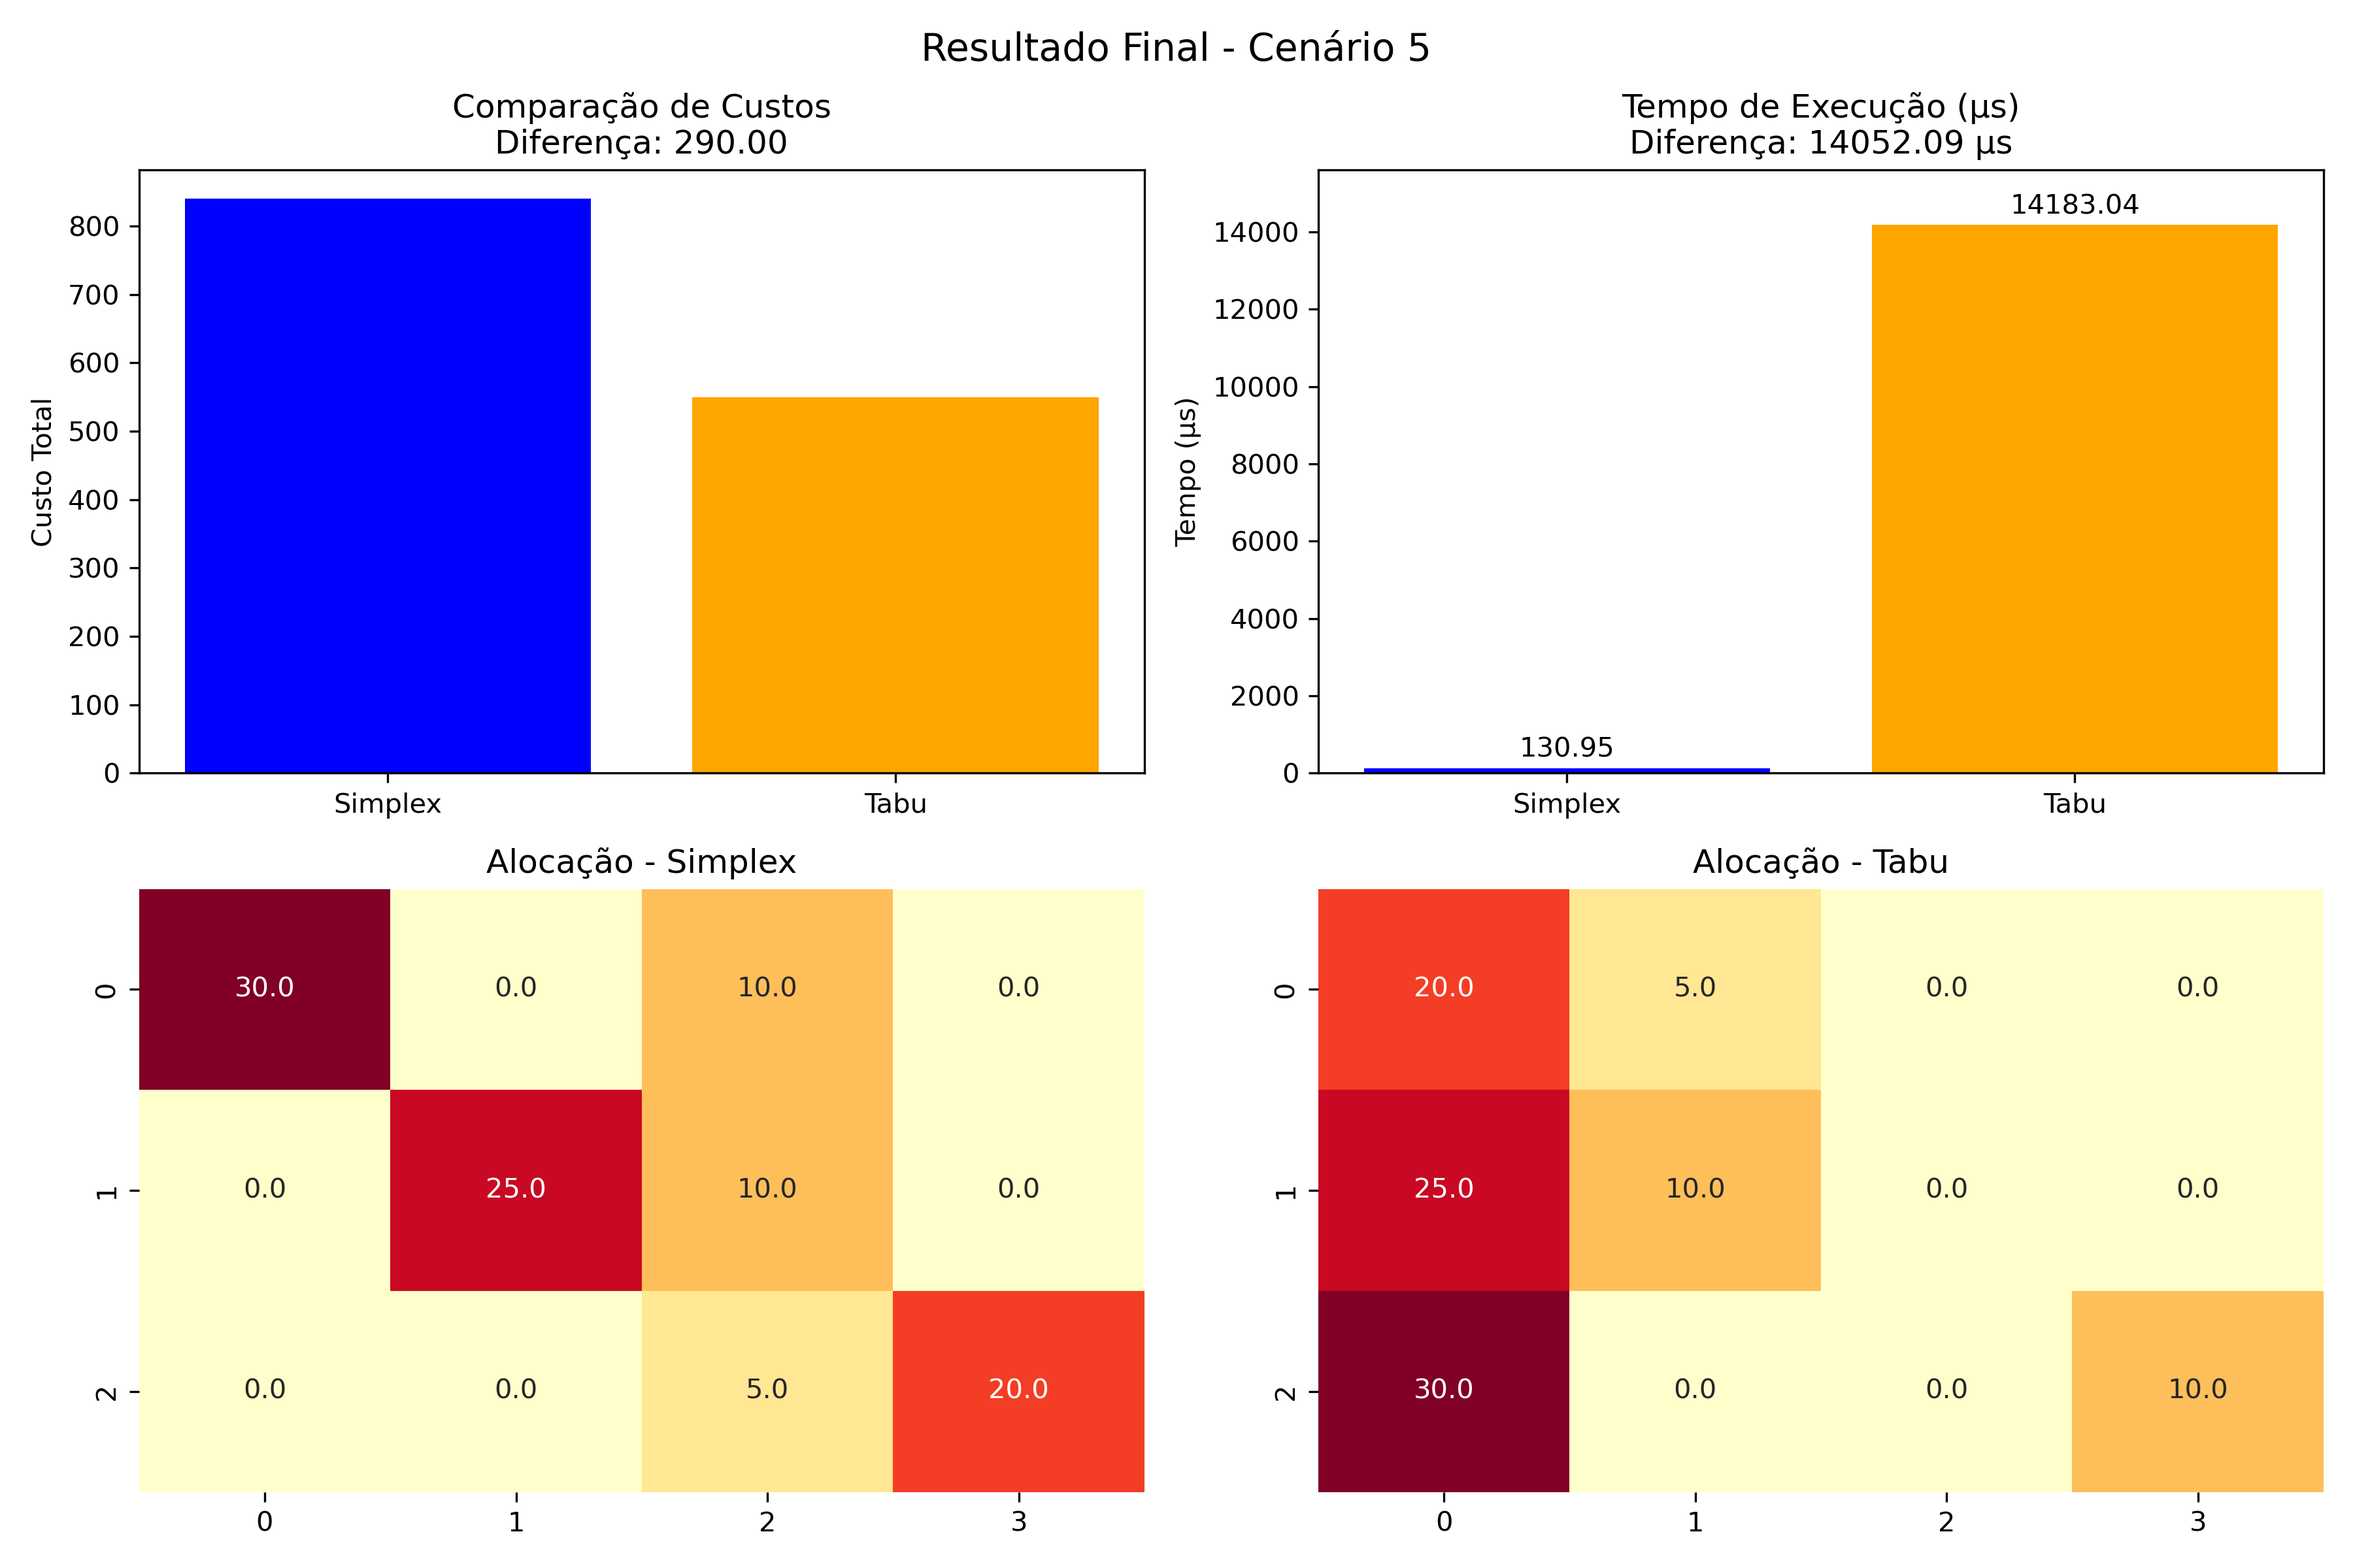
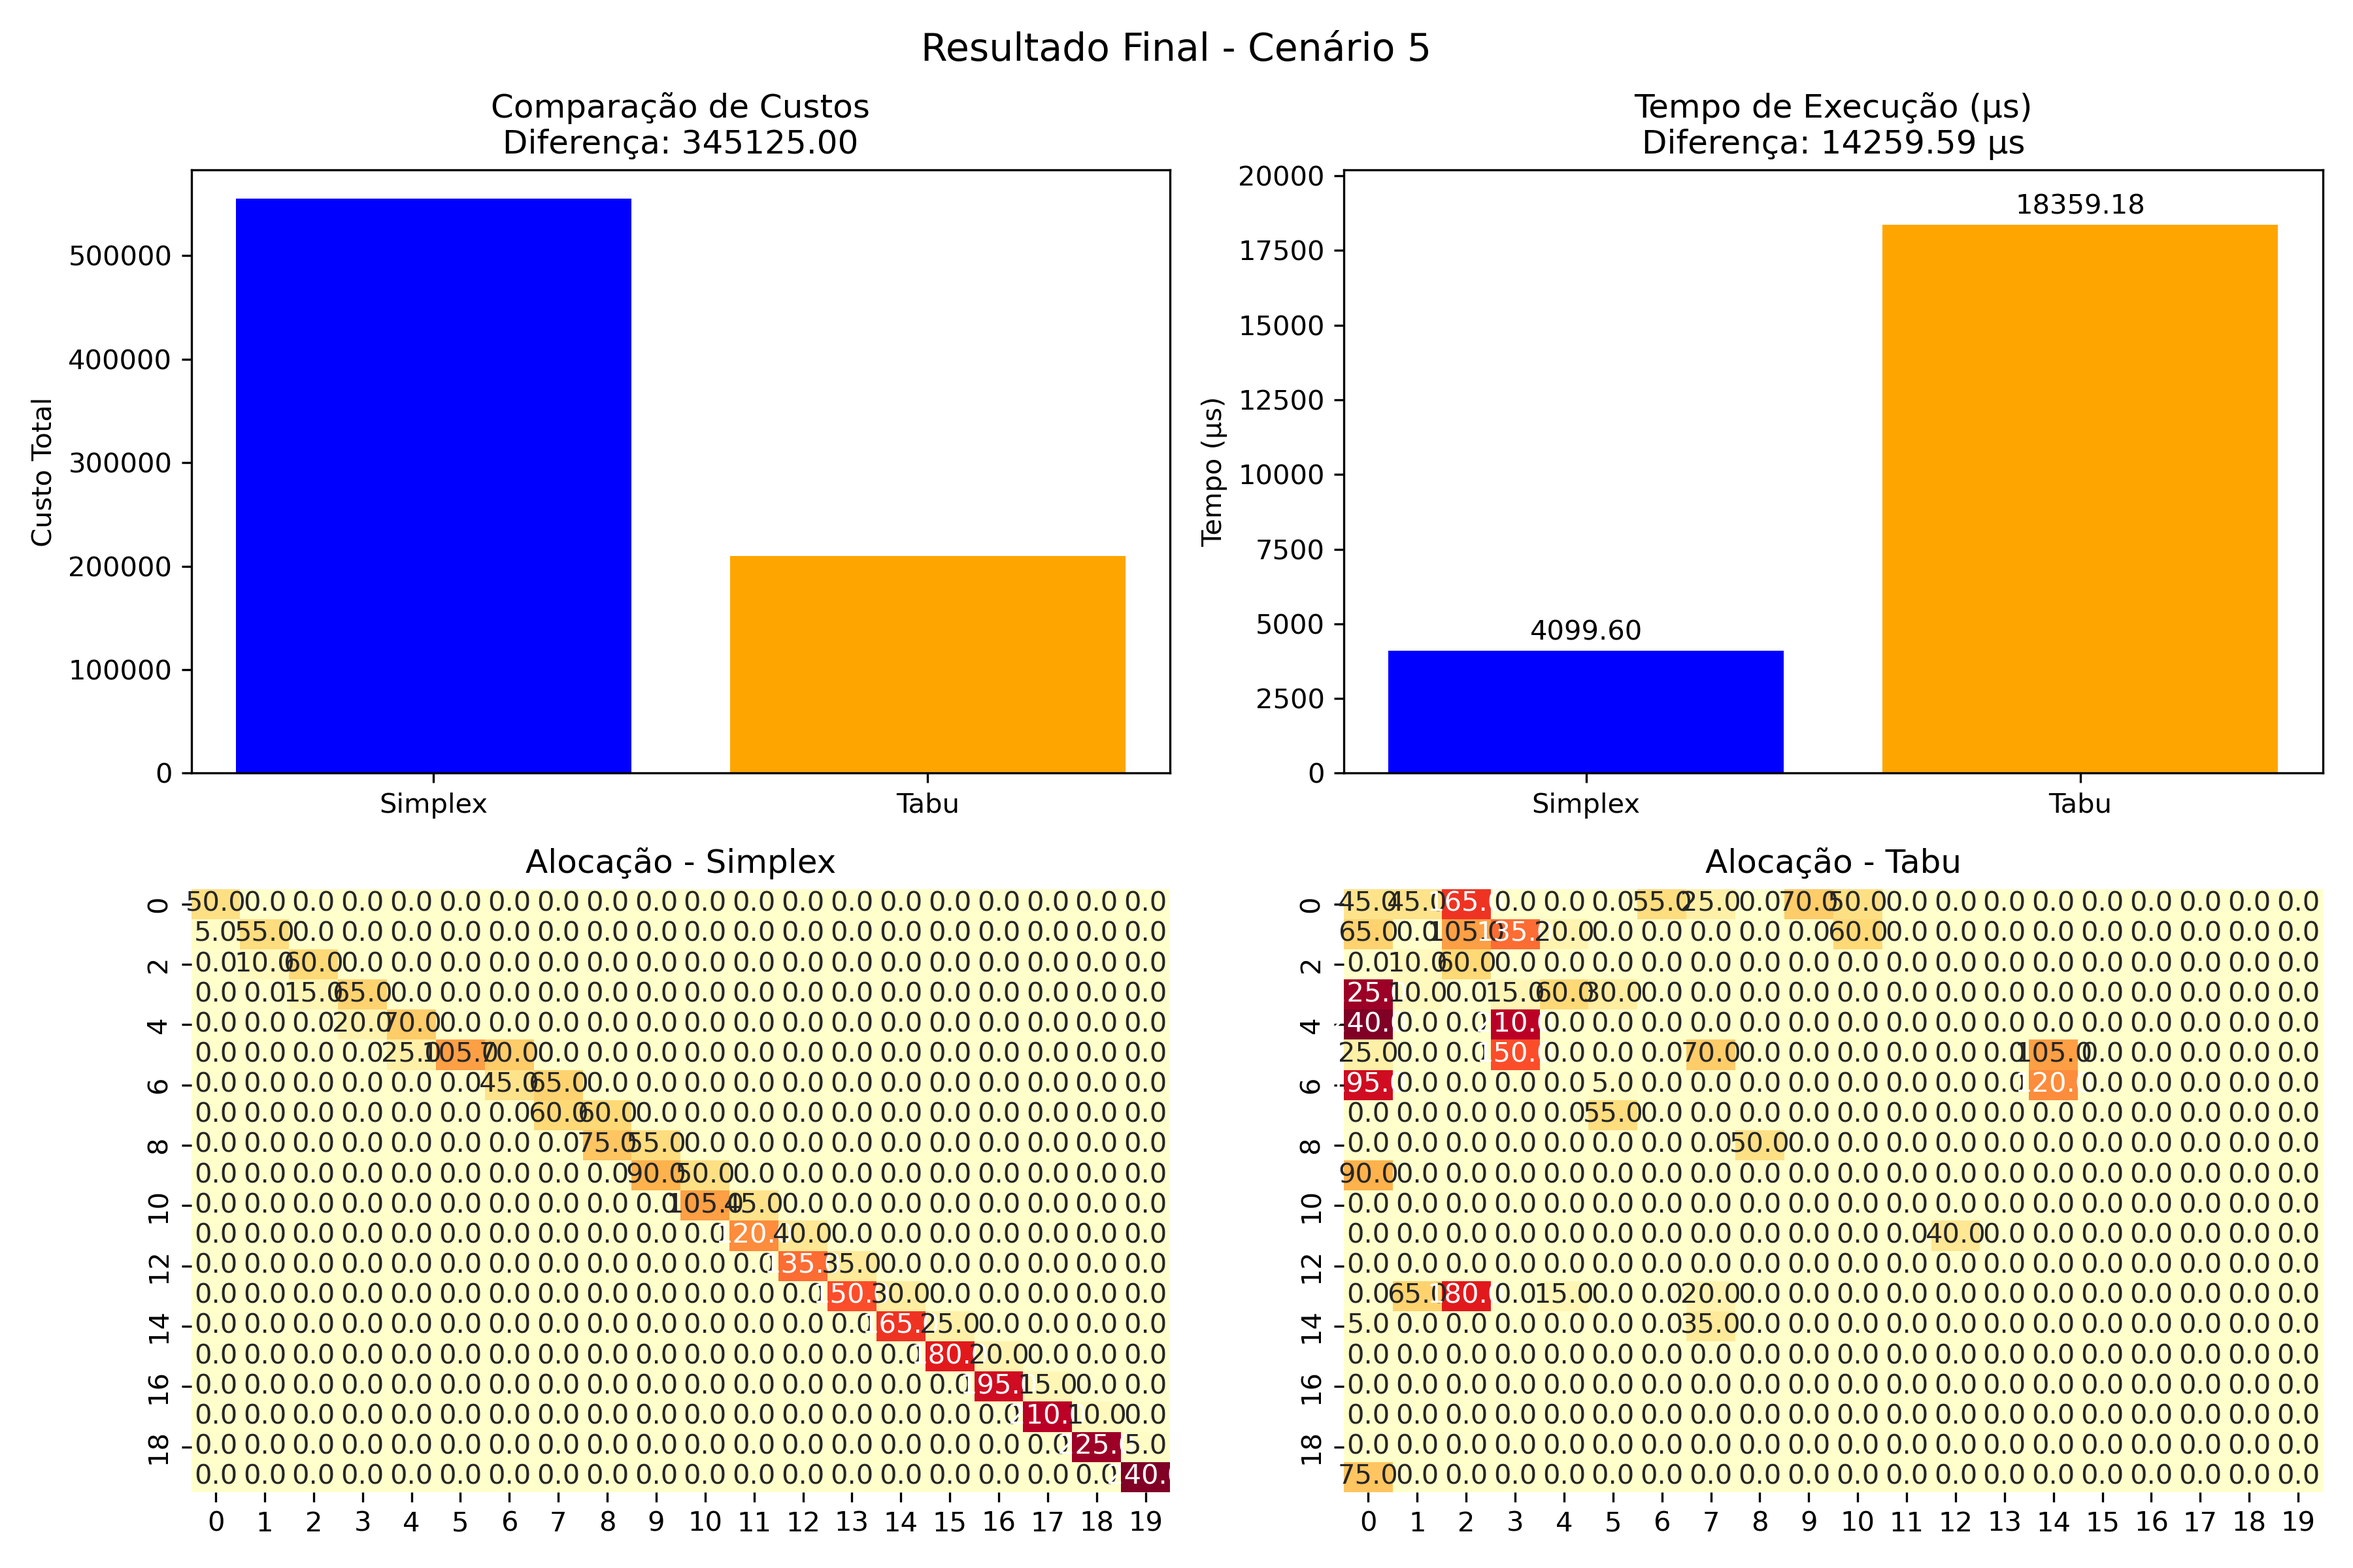
ajuste final

diff --git a/utils.py b/utils.py
@@ -271,13 +271,21 @@ def grafico_top_top(nome_cenario, historico_custo_simplex, historico_custo_tabu,
                  color=["blue", "orange"])
     ax_custos.set_title(f"Custos Finais\nDif.: {abs(custo_simplex - custo_tabu):.2f}")
     ax_custos.set_ylabel("Custo")
+    # Valor de cada barra
+    for i, value in enumerate([custo_simplex, custo_tabu]):
+        ax_custos.text(i, value + 20, str(value), ha='center', va='top', fontsize=12, color='black')
+
+
 
     # Plot dos tempos
     ax_tempos.bar(["Simplex", "Tabu"], [tempo_simplex, tempo_tabu], 
                  color=["blue", "orange"])
     ax_tempos.set_title(f"Tempo de Execução (µs)\nDif.: {abs(tempo_simplex - tempo_tabu):.2f}")
     ax_tempos.set_ylabel("Tempo (µs)")
-
+    # Valor de cada barra
+    for i, value in enumerate([tempo_simplex, tempo_tabu]):
+        ax_custos.text(i, value + 20, str(value), ha='center', va='top', fontsize=12, color='black')
+    
     # Ajustar layout
     plt.suptitle(f"Análise Comparativa - {nome_cenario}", fontsize=14)
     plt.tight_layout()
